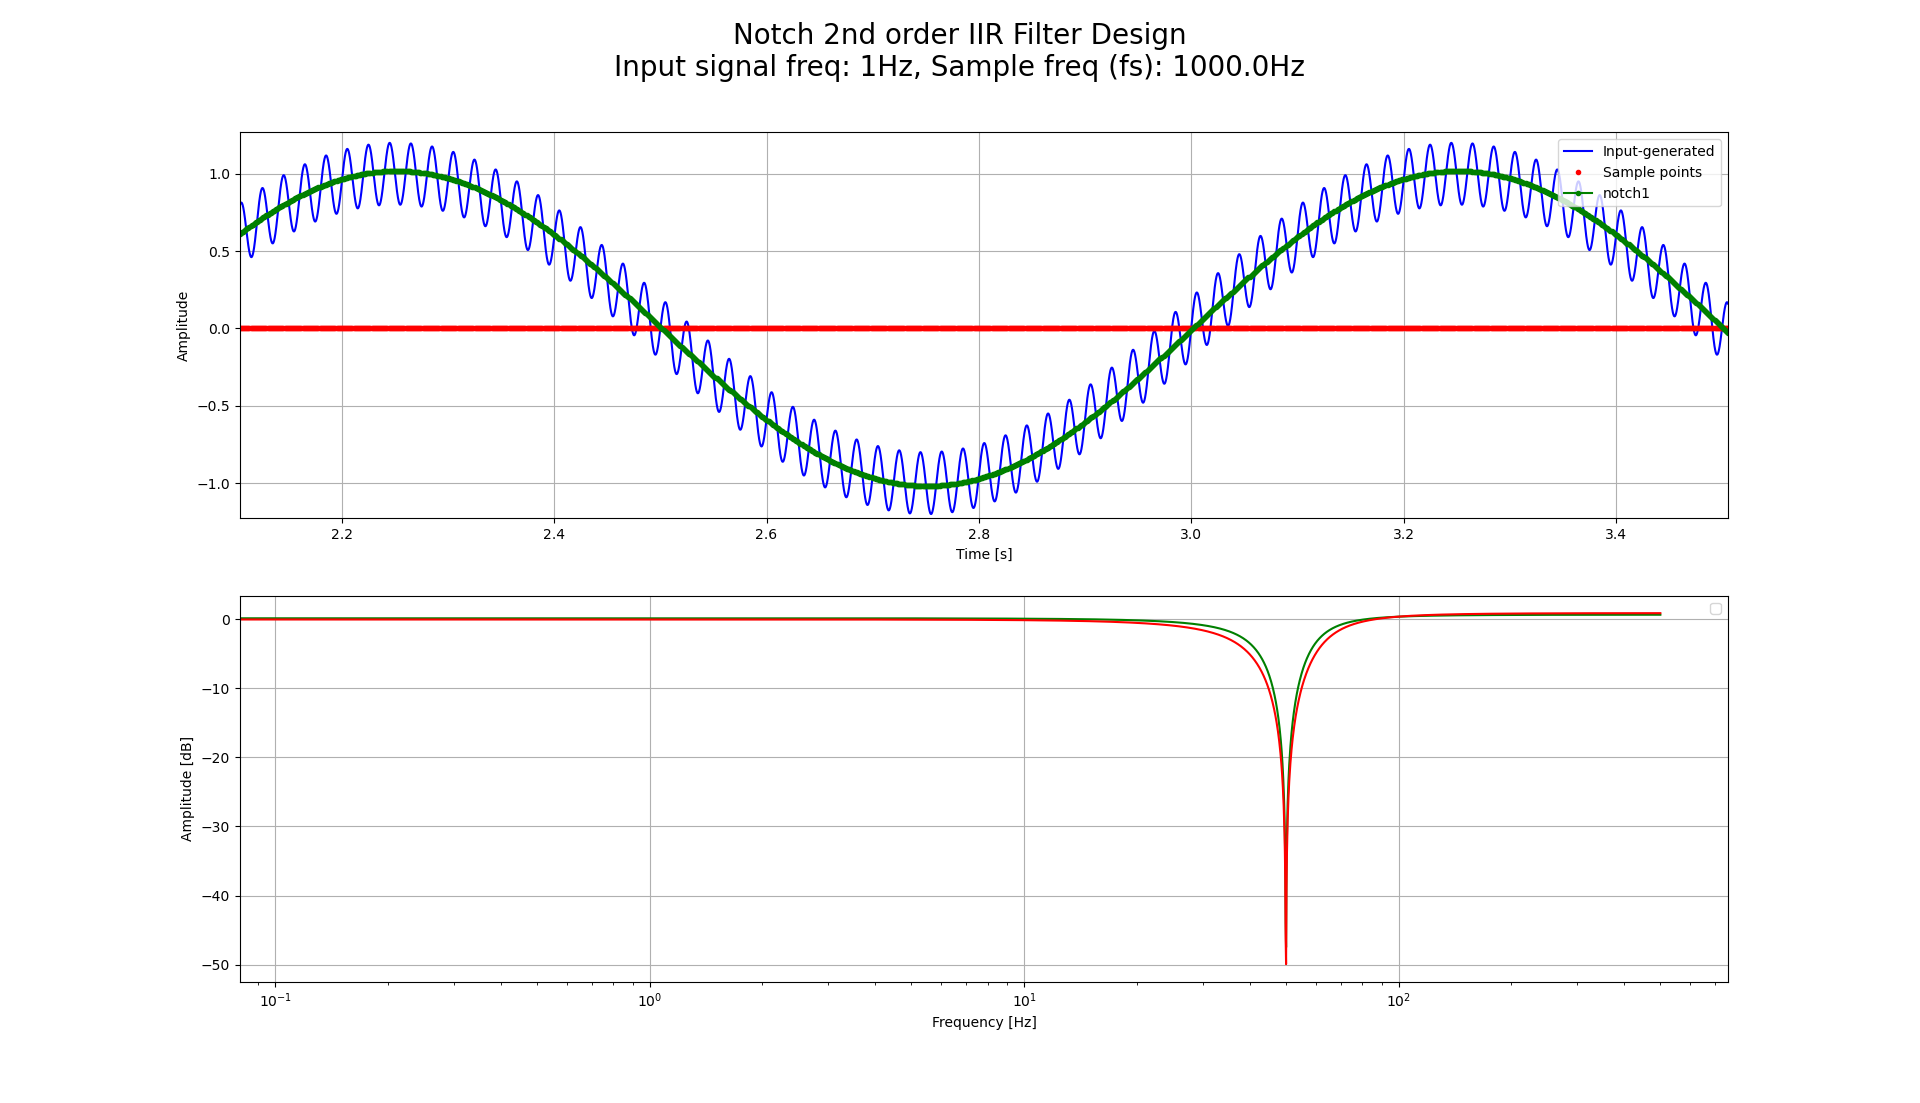
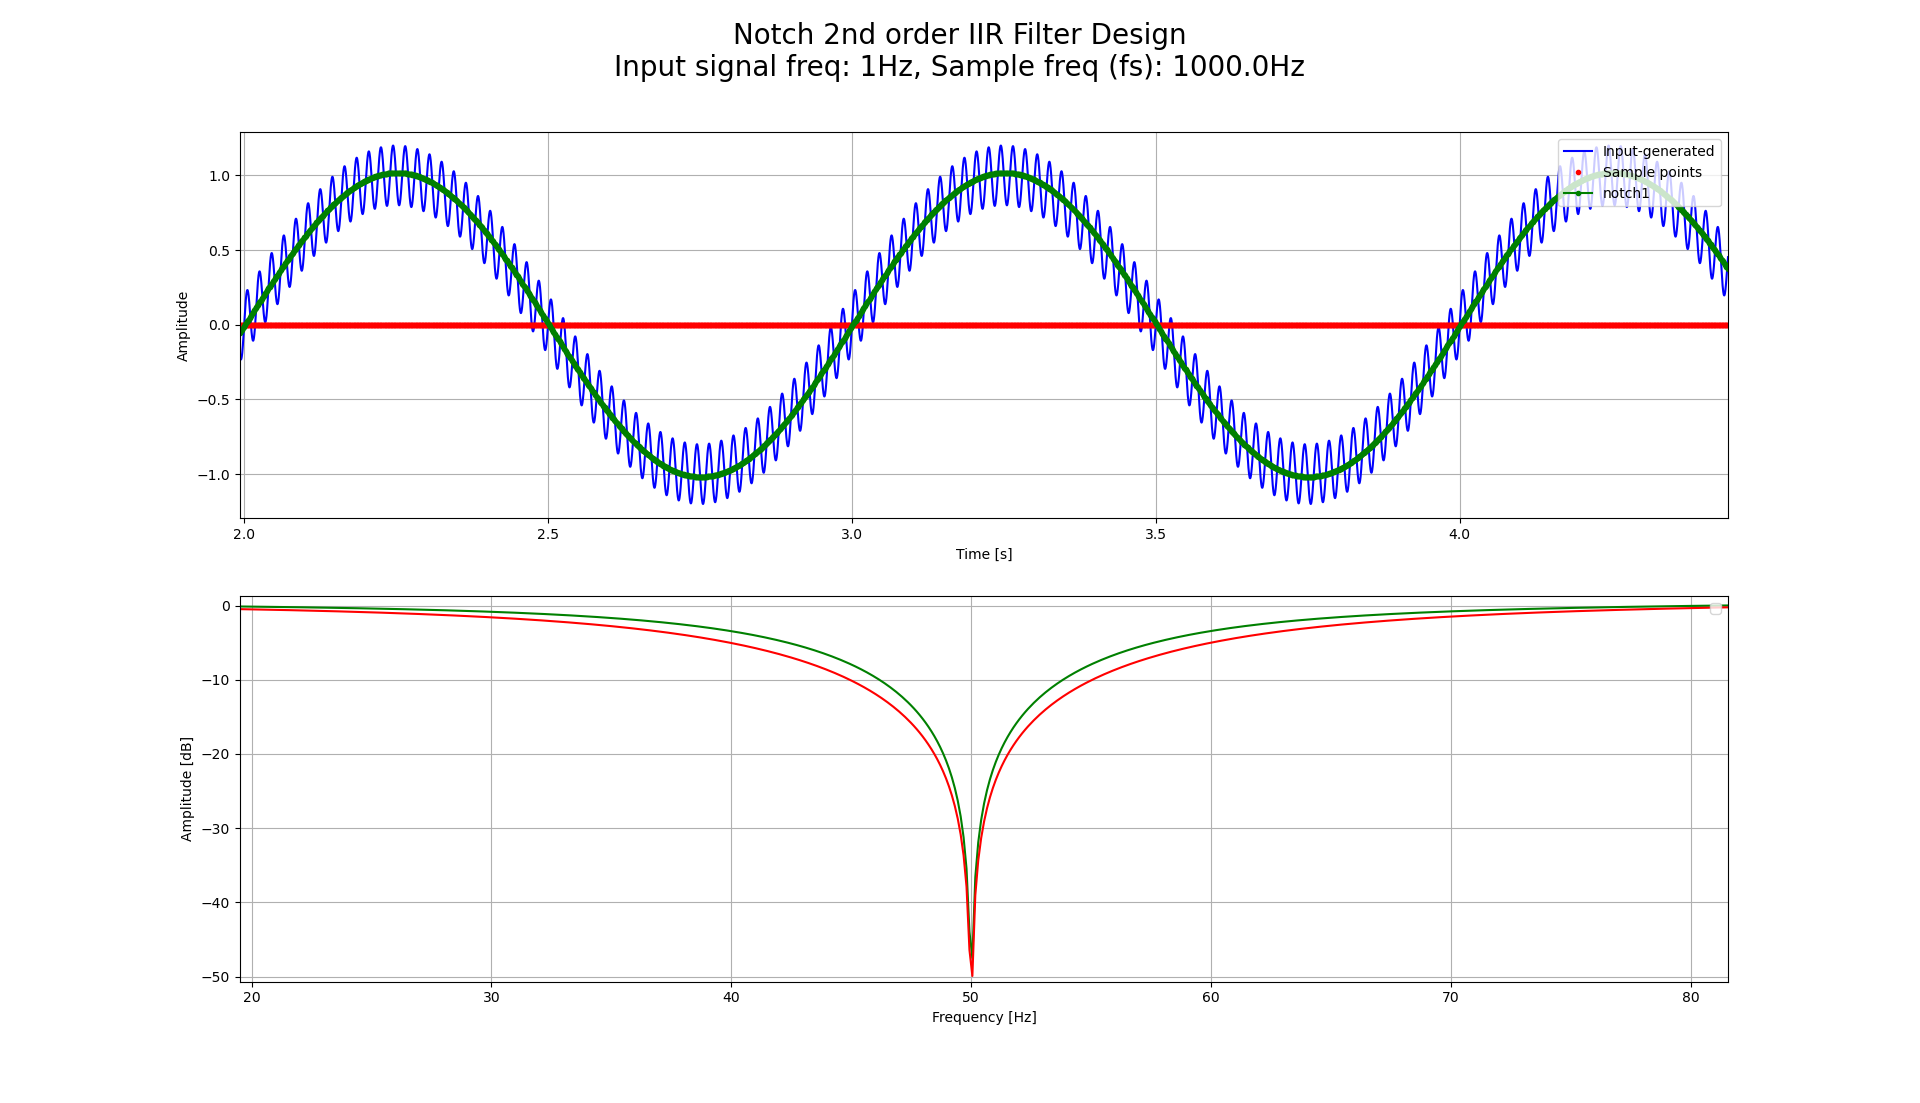
- change axis scale to linear - added new picture of notch filter

diff --git a/simulations/iir_filter.py b/simulations/iir_filter.py
@@ -435,7 +435,7 @@ if __name__ == "__main__":
     ax3[1].grid()
     #ax3[1].set_ylim(-80, 20)
     #ax3[1].set_xlim(0.001, SAMPLE_FREQ/4)
-    ax3[1].set_xscale("log")
+    #ax3[1].set_xscale("log")
     ax3[1].legend(loc="upper right")
 
     plt.show()
